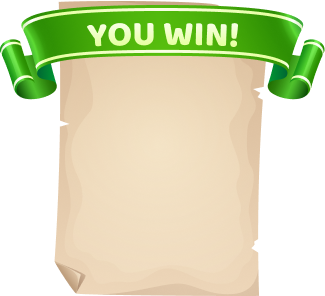
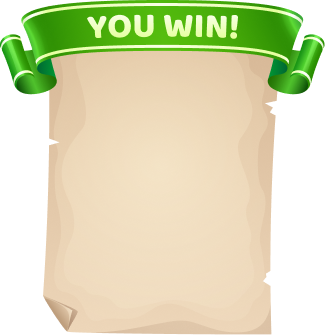
css refinement

Changed region(s): [[0.0, 0.0, 1.0, 1.0], [0.3077, 0.973, 0.4, 1.0]]

diff --git a/script.js b/script.js
@@ -11,32 +11,32 @@ let basketImage = new Image();
 basketImage.src = './img/basket.png';
 
 //create scoreBoard
-let scoreX= (canvas.width - 110);
-let scoreY= 20;
-let scoreImg= new Image();
-scoreImg.src= './img/scoreBoard.png'
-let scoreTextX=(canvas.width - 50)
-let scoreTextY= 50
+let scoreX = (canvas.width - 110);
+let scoreY = 20;
+let scoreImg = new Image();
+scoreImg.src = './img/scoreBoard.png'
+let scoreTextX = (canvas.width - 50)
+let scoreTextY = 50
 
 // Create fruits
 let fruitX = Math.random() * (canvas.width - 50);
 let fruitY = 0;
-let fruit2X = Math.random() * (canvas.width-50);
+let fruit2X = Math.random() * (canvas.width - 50);
 let fruit2Y = 0;
-let fruit3X = Math.random() * (canvas.width-50);
+let fruit3X = Math.random() * (canvas.width - 50);
 let fruit3Y = 0;
 
 // Create obstacles
-let obstacleX = Math.random() * (canvas.width-50);
+let obstacleX = Math.random() * (canvas.width - 50);
 let obstacleY = 0;
-let obstacle2X = Math.random() * (canvas.width-50);
+let obstacle2X = Math.random() * (canvas.width - 50);
 let obstacle2Y = 0;
 
 
 // Create variables
 let score = 0;
 let startTime = Date.now();
-let coins=100;
+let coins = 100;
 
 // Create event listener
 document.addEventListener('touchstart', backButton);
@@ -45,8 +45,8 @@ document.addEventListener('touchstart', moveBasket);
 document.addEventListener('touchend', moveBasket);
 document.addEventListener('touchmove', moveBasket);
 
-backButton.addEventListener('click',()=>{
-  window.close();
+backButton.addEventListener('click', () => {
+    window.close();
 })
 
 // Move basket
@@ -59,7 +59,7 @@ function moveBasket(e) {
         basketX += 13;
     }
 }
-    // Create background
+// Create background
 let backgroundImage = new Image();
 backgroundImage.src = './img/back.png';
 
@@ -76,10 +76,10 @@ function draw() {
     // ctx.drawImage(backBtnImg,backBtnX,backBtnY,20,20);
 
     //draw score Board button
-    ctx.drawImage(scoreImg,scoreX,scoreY,100,45);
-    ctx.font='20px Broadway'
-    ctx.fillText(score,scoreTextX,scoreTextY)
-    
+    ctx.drawImage(scoreImg, scoreX, scoreY, 100, 45);
+    ctx.font = '20px Broadway'
+    ctx.fillText(score, scoreTextX, scoreTextY)
+
     // Draw fruits
     let fruitXimg = new Image();
     fruitXimg.src = './img/fruit.png';
@@ -90,7 +90,7 @@ function draw() {
     ctx.drawImage(fruitXimg, fruitX, fruitY, 50, 50);
     ctx.drawImage(fruit2Ximg, fruit2X, fruit2Y, 50, 50);
     ctx.drawImage(fruit3Ximg, fruit3X, fruit3Y, 50, 50);
-    
+
     // Draw obstacles
     let obstacle1Image = new Image();
     obstacle1Image.src = './img/obstacle1.png';
@@ -98,10 +98,10 @@ function draw() {
     obstacle2Image.src = './img/obstacle2.png';
     ctx.drawImage(obstacle1Image, obstacleX, obstacleY, 40, 40);
     ctx.drawImage(obstacle2Image, obstacle2X, obstacle2Y, 40, 40);
-    
+
     // Draw basket
     ctx.drawImage(basketImage, basketX, basketY, 120, 50);
-    
+
     // Move fruits
     let speed = 4 + (score * 0.04);
     let speed2 = 5 + (score * 0.04);
@@ -120,12 +120,12 @@ function draw() {
         fruitX = Math.random() * canvas.width;
         fruitY = 0;
     }
-    if (fruit2X > basketX && fruit2X < basketX + 130 && fruit2Y > basketY && fruit2Y < basketY+ 230) {
+    if (fruit2X > basketX && fruit2X < basketX + 130 && fruit2Y > basketY && fruit2Y < basketY + 230) {
         score += 3;
         fruit2X = Math.random() * canvas.width;
         fruit2Y = 0;
     }
-    if (fruit3X > basketX && fruit3X < basketX + 130 && fruit3Y > basketY && fruit3Y < basketY+ 230) {
+    if (fruit3X > basketX && fruit3X < basketX + 130 && fruit3Y > basketY && fruit3Y < basketY + 230) {
         score += 4;
         fruit3X = Math.random() * canvas.width;
         fruit3Y = 0;
@@ -138,7 +138,7 @@ function draw() {
         obstacleY = 0;
     }
     if (obstacle2X > basketX && obstacle2X < basketX + 130 && obstacle2Y > basketY && obstacle2Y < basketY + 230) {
-        score-=2;
+        score -= 2;
         obstacle2X = Math.random() * canvas.width;
         obstacle2Y = 0;
     }
@@ -172,39 +172,38 @@ function draw() {
     let elapsedTime = currentTime - startTime;
     if (elapsedTime >= 10000) {
         let endCard = document.createElement('div');
-        endCard.innerHTML=`
+        endCard.innerHTML = `
         <div class="notifContainer">
             <div class="notifWin">
-            <h2>Congratulations !!</h2>
-            <h3 class="notif-content">You guessed the </h3>
-            <br />
-            <br />
-            <div class="scoreNotifContainer">
-                <img src="./img/coinsSymbol.png" alt="" class="notifCoin" />
-                <p>${score}.</p>
-            </div>
-            <br />
-            <br />
-            <div class="notifBtn">
-                <button class="close-btn">
-                <img src="./img/home.png" alt="" />
-                </button>
-                <button class="reset-btn">
-                <img src="./img/restart.png" alt="" />
-                </button>
-            </div>
+                     <div class="notifHead">
+                            <h3 class="notif-content">Game Over!! </h3>
+                             <h2>Congratulations</h2>
+                                 <br/>
+                     </div>
+                <div class="scoreNotifContainer">
+                        <img src="./img/coinsSymbol.png" alt="" class="notifCoin" />
+                            <p>${score}</p>
+                 </div>
+                 <div class="notifBtn">
+                        <button class="close-btn">
+                        <img src="./img/home.png" alt="" />
+                            </button>
+                        <button class="reset-btn">
+                        <img src="./img/restart.png" alt="" />
+                     </button>
+                 </div>
             </div>
         </div>`;
         document.body.appendChild(endCard);
         const closeButton = document.querySelector('.close-btn');
         const resetButton = document.querySelector('.reset-btn');
-        closeButton.addEventListener('click', function() {
+        closeButton.addEventListener('click', function () {
             window.parent.postMessage(coins, '*');
             window.close();
         });
-        resetButton.addEventListener('click', function() {
+        resetButton.addEventListener('click', function () {
             document.body.removeChild(endCard);
-            score=0;
+            score = 0;
             startTime = Date.now();
             draw();
         });

diff --git a/style.css b/style.css
@@ -1,12 +1,20 @@
-html{
+* {
+    margin: 0;
+    padding: 0;
+    box-sizing: border-box;
+}
+
+html {
     padding: 0em;
     margin: 0em;
     box-sizing: border-box;
 }
-body{
+
+body {
     padding: 0em;
     margin: 0em;
 }
+
 canvas {
     padding: 0em;
     margin: 0em;
@@ -49,6 +57,10 @@ canvas {
     justify-content: center;
     align-items: center;
     background: url(./img/back.png);
+    background-position: center;
+    background-size: cover;
+    background-repeat: no-repeat;
+
 }
 
 /* win screen */
@@ -57,29 +69,26 @@ canvas {
     top: 50%;
     left: 50%;
     transform: translate(-50%, -50%);
+    padding-top: 3%;
     /* background: #fc6c85; */
     /* width: 20rem; */
     /* padding: 20px 10px; */
     /* border-radius: 4px; */
     /* box-shadow: 3px 3px 1px 1px rgba(0, 0, 0, 0.2); */
     background: url(./img/winScreen.png);
-    width: 22rem;
-    height: 31.4rem;
+    width: 22.9rem;
+    height: 22.9rem;
     background-position: center;
-    background-size: contain;
+    background-size: cover;
     background-repeat: no-repeat;
     display: flex;
     flex-direction: column;
     justify-content: center;
     align-items: center;
+    /* border: 2px solid red; */
 }
 
-.notifWin h2,
-h3,
-h4 {
-    font-size: 1rem;
-    font-family: Broadway;
-}
+
 
 .notifBtn {
     display: flex;
@@ -98,7 +107,7 @@ h4 {
 }
 
 .scoreNotifContainer {
-    width: 13.14rem;
+    width: 10.14rem;
     height: 4.3rem;
     background: linear-gradient(0deg, #EDD6B9 0%, #D4B492 99.95%);
     background-blend-mode: multiply;
@@ -115,7 +124,16 @@ h4 {
     height: 3rem;
 }
 
-.notifScore {
+.scoreNotifContainer p {
+    font-size: 2.5rem;
+    font-weight: 400;
+    font-family: Broadway;
+    text-align: center;
+    text-transform: capitalize;
+    color: #AD5B00;
+}
+
+.notifScore p {
     font-size: 2.5rem;
     font-weight: 400;
     font-family: Broadway;
@@ -137,4 +155,22 @@ h4 {
     background: none;
     border: none;
     outline: none;
+}
+
+.notifHead {
+    display: flex;
+    flex-direction: column;
+    justify-content: space-between;
+    align-items: center;
+    height: 30%;
+    overflow: hidden;
+}
+
+.notifHead h2,
+h3,
+h4 {
+    font-size: 1.8rem;
+    font-size: 1.8rem;
+    font-family: Broadway;
+    color: #AD5B00;
 }
